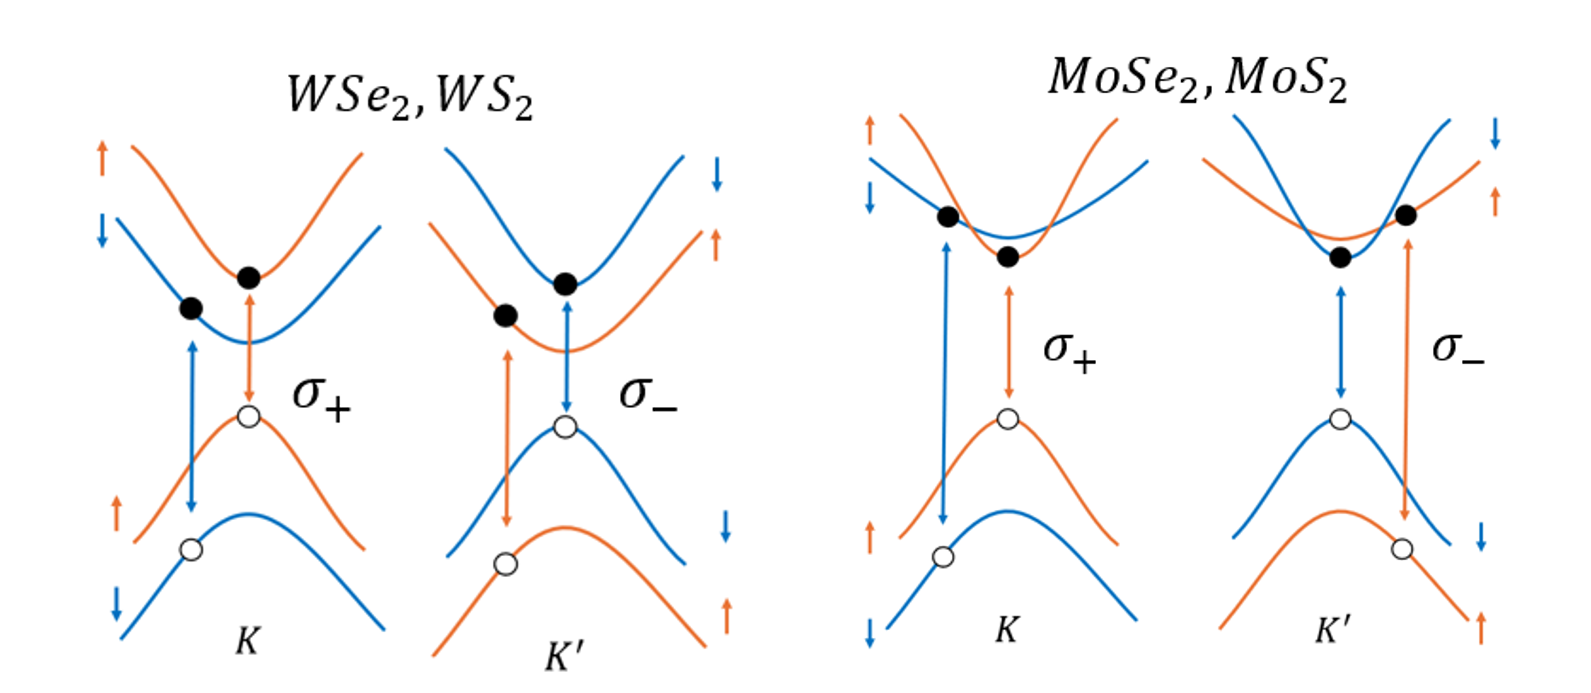
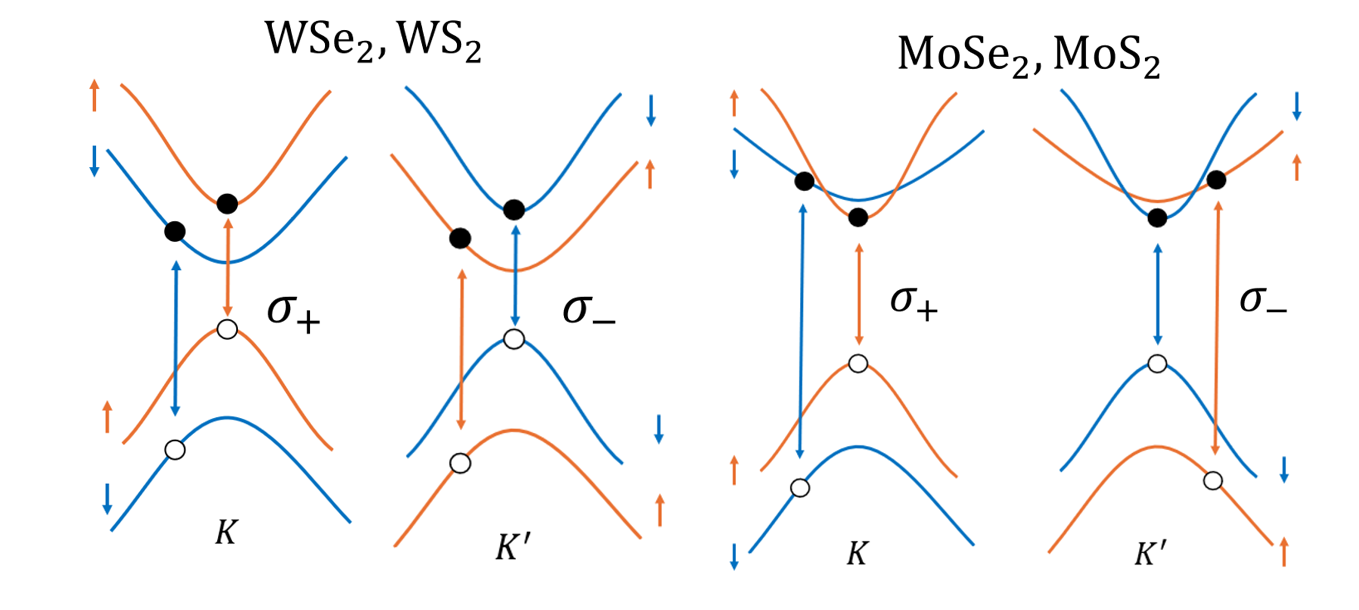
Add files via upload

diff --git a/5-Chapters/2-RelatedWorks.tex b/5-Chapters/2-RelatedWorks.tex
@@ -25,8 +25,8 @@
 \section{激子多體理論與 Bethe-Salpeter 方程式（BSE）}
 \label{sec:theory_BSE}
 % ─────────────────────────────────────────
-在單層過渡金屬二硫族化合物（TMD-MLs）中，由於二維量子侷限系統的面外介電屏蔽效應微弱，顯著增強的庫侖交互作用使電子與電洞間的束縛能非常強 \cite{Chernikov2014}。傳統基於密度泛函理論（DFT）的單粒子能帶架構僅能描述獨立載子的準粒子（Quasiparticle）能量，無法有效捕捉電子與電洞之間的庫侖相干束縛態。因此，若要定量描述二維系統中的激子多體效應（Many-body effects），必須從多體微擾理論出發，首先構建激子系統的多體漢米爾頓量算符 $\hat{H}^{X}$ \cite{Lin2024Phd,Haug2009}：
-在單層過渡金屬二硫族化合物（TMD-MLs）中，由於二維量子侷限系統的面外介電屏蔽效應微弱，顯著增強的庫侖交互作用使電子與電洞間的束縛能非常強 \cite{Chernikov2014}。傳統基於密度泛函理論（DFT）的單粒子能帶架構僅能描述獨立載子的準粒子（Quasiparticle）能量，無法有效捕捉電子與電洞之間的庫侖相干束縛態。因此，若要定量描述二維系統中的激子多體效應（Many-body effects），必須從多體微擾理論出發，構建激子系統的多體漢米爾頓量算符 $\hat{H}^{X}$ \cite{Lin2024Phd,Haug2009}：
+
+在單層過渡金屬二硫族化合物（TMD-MLs）中，由於二維量子侷限系統的面外介電屏蔽效應微弱，顯著增強的庫侖交互作用使電子與電洞間的束縛能非常強 \cite{Chernikov2014}。傳統基於密度泛函理論（DFT）的單粒子能帶架構僅能描述獨立載子的準粒子（Quasiparticle）能量，無法有效捕捉電子與電洞之間的庫侖相干束縛態。因此，若要定量描述二維系統中的激子多體效應（Many-body effects），必須從多體微擾理論出發，構建激子系統的多體哈密頓量 $\hat{H}^{X}$ \cite{Lin2024Phd,Haug2009}：
 \begin{equation}
 	\hat{H}^{X} = \hat{H}_0 + \hat{H}_{\mathrm{eh}}^d + \hat{H}_{\mathrm{eh}}^x
 	\label{eq:H_exciton_total}
@@ -37,58 +37,65 @@
 	\hat{H}_{\mathrm{eh}}^d &= -\sum_{\mathbf{k}_{\mathrm{ex}}}\sum_{vck}\sum_{v'c'k'} V_{\mathbf{k}_{\mathrm{ex}}}^d(vc\mathbf{k}, v'c'\mathbf{k}') \, \hat{c}_{c,\mathbf{k}+\mathbf{k}_{\mathrm{ex}}}^{\dagger}\hat{h}_{v,-\mathbf{k}}^{\dagger}\hat{h}_{v',-\mathbf{k}'}\hat{c}_{c',\mathbf{k}'+\mathbf{k}_{\mathrm{ex}}} \label{eq:Hd_op} \\
 	\hat{H}_{\mathrm{eh}}^x &= \sum_{\mathbf{k}_{\mathrm{ex}}}\sum_{vck}\sum_{v'c'k'} V_{\mathbf{k}_{\mathrm{ex}}}^x(vc\mathbf{k}, v'c'\mathbf{k}') \, \hat{c}_{c,\mathbf{k}+\mathbf{k}_{\mathrm{ex}}}^{\dagger}\hat{h}_{v,-\mathbf{k}}^{\dagger}\hat{h}_{v',-\mathbf{k}'}\hat{c}_{c',\mathbf{k}'+\mathbf{k}_{\mathrm{ex}}} \label{eq:Hx_op}
 \end{align}
-此處，$\hat{H}_0$ 為自由載子的準粒子動能項，$\hat{H}_{\mathrm{eh}}^d$ 為電子--電洞直接庫侖交互作用項，$\hat{H}_{\mathrm{eh}}^x$ 則為電子--電洞交換交互作用項 \cite{Haug2009}。$\hat{c}_{c,\mathbf{k}}^{\dagger}$（$\hat{c}_{c,\mathbf{k}}$）為導帶電子的創生（湮滅）算符，$\hat{h}_{v,-\mathbf{k}}^{\dagger}$（$\hat{h}_{v,-\mathbf{k}}$）為價帶電洞的創生（湮滅）算符，$\mathbf{k}$ 為載子的單粒子波向量，而 $\mathbf{k}_{\mathrm{ex}}$ 則代表激子的質心動量（Center-of-mass momentum）\cite{Lin2024Phd}。準粒子動能 $\epsilon_{c,\mathbf{k}}$ 與 $\epsilon_{v,\mathbf{k}}$ 由單粒子能帶結構決定 \cite{Lin2024Phd}。其交互作用核中直接項與交換項的散射矩陣元分別定義為 \cite{Lin2024Phd,Haug2009}：
-\begin{equation}
-	V_{\mathbf{k}_{\mathrm{ex}}}^d(vc\mathbf{k}, v'c'\mathbf{k}') = \int\int d^{3}r_{1}d^{3}r_{2} \, \psi_{c,\mathbf{k}+\mathbf{k}_{\mathrm{ex}}}^{*}(r_{1})\psi_{v,\mathbf{k}}(r_{2}) W(r_{1},r_{2}) \psi_{v'\mathbf{k}'}^{*}(r_{2})\psi_{c',\mathbf{k}'+\mathbf{k}_{\mathrm{ex}}}(r_{1})
-\end{equation}
-\begin{equation}
-	V_{\mathbf{k}_{\mathrm{ex}}}^x(vc\mathbf{k}, v'c'\mathbf{k}') = \int\int d^{3}r_{1}d^{3}r_{2} \, \psi_{c,\mathbf{k}+\mathbf{k}_{\mathrm{ex}}}^{*}(r_{1})\psi_{v',\mathbf{k}'}^{*}(r_{2}) V(r_{1}-r_{2}) \psi_{c',\mathbf{k}'+\mathbf{k}_{\mathrm{ex}}}(r_{2})\psi_{v,\mathbf{k}}(r_{1})
-\end{equation}
-此處，$V(r_{1}-r_{2})$ 為裸庫侖交互作用（Bare Coulomb interaction），而 $W(r_{1},r_{2})$ 則為屏蔽庫侖交互作用（Screened Coulomb interaction）\cite{Lin2024Phd}。直接項導致載子間的吸引散射，而交換項則描述載子對的相干湮滅與重新激發過程 \cite{Lin2024Phd}。
 此處，$\hat{H}_0$ 為自由載子的準粒子動能項，$\hat{H}_{\mathrm{eh}}^d$ 為電子--電洞直接庫侖交互作用項，$\hat{H}_{\mathrm{eh}}^x$ 則為電子--電洞交換交互作用項 \cite{Haug2009}。$\hat{c}_{c,\mathbf{k}}^{\dagger}$（$\hat{c}_{c,\mathbf{k}}$）為導帶電子的創生（湮滅）算符，$\hat{h}_{v,-\mathbf{k}}^{\dagger}$（$\hat{h}_{v,-\mathbf{k}}$）為價帶電洞的創生（湮滅）算符，$\mathbf{k}$ 為載子的單粒子波向量，$\mathbf{k}_{\mathrm{ex}}$ 代表激子的質心動量（Center-of-mass momentum）\cite{Lin2024Phd}。其交互作用核中直接項與交換項的散射矩陣元分別定義為 \cite{Lin2024Phd,Haug2009}：
 \begin{align}
 	V_{\mathbf{k}_{\mathrm{ex}}}^d(vc\mathbf{k}, v'c'\mathbf{k}') &= \int\!\!\int d^{3}r_{1}\,d^{3}r_{2} \; \psi_{c,\mathbf{k}+\mathbf{k}_{\mathrm{ex}}}^{*}(r_{1})\psi_{v,\mathbf{k}}(r_{2})\, W(r_{1},r_{2})\, \psi_{v'\mathbf{k}'}^{*}(r_{2})\psi_{c',\mathbf{k}'+\mathbf{k}_{\mathrm{ex}}}(r_{1}) \\[4pt]
 	V_{\mathbf{k}_{\mathrm{ex}}}^x(vc\mathbf{k}, v'c'\mathbf{k}') &= \int\!\!\int d^{3}r_{1}\,d^{3}r_{2} \; \psi_{c,\mathbf{k}+\mathbf{k}_{\mathrm{ex}}}^{*}(r_{1})\psi_{v',\mathbf{k}'}^{*}(r_{2})\, V(r_{1}-r_{2})\, \psi_{c',\mathbf{k}'+\mathbf{k}_{\mathrm{ex}}}(r_{2})\psi_{v,\mathbf{k}}(r_{1})
 \end{align}
-此處，$V(r_{1}-r_{2})$ 為裸庫侖交互作用（Bare Coulomb interaction），$W(r_{1},r_{2})$ 則為屏蔽庫侖交互作用（Screened Coulomb interaction）\cite{Lin2024Phd}。直接項導致載子間的吸引散射，交換項則描述載子對的相干湮滅與重新激發過程 \cite{Lin2024Phd}。
+此處，$V(r_{1}-r_{2})$ 為裸庫侖交互作用（Bare Coulomb interaction），$W(r_{1},r_{2})$ 則為屏蔽庫侖交互作用（Screened Coulomb interaction）\cite{Lin2024Phd}。直接項導致載子間的吸引散射，交換項則描述載子對的相干湮滅與重新激發過程 \cite{Lin2024Phd}。此兩組交互作用核之微觀費曼圖示意如圖~\ref{fig:bse_interactions} 所示。
+
+\begin{figure}[H]
+	\centering
+	\includegraphics[width=0.88\textwidth]{Figures/bse_interactions.png}
+	\caption{Bethe-Salpeter 方程式（BSE）中兩類交互作用核之微觀多體費曼圖示意。(a) 直接庫侖交互作用項（Direct Coulomb interaction）：電子與電洞間受介電屏蔽的吸引散射，為激子束縛態形成之根源，對應核 $V^d$；(b) 交換庫侖交互作用項（Exchange Coulomb interaction）：電子與電洞對之相干湮滅與重新激發過程，對應核 $V^x$，其非解析不連續性主導動量空間的縱橫劈裂與偶極方向選擇性。}
+	\label{fig:bse_interactions}
+\end{figure}
+
 物理上，激子的量子態波函數必須表示為自由電子--電洞對量子態的線性疊加 \cite{Yu2014}。若定義系統之無激子多體基態為 $|\mathrm{GS}\rangle$，則具有特定質心動量 $\hbar\mathbf{k}_{\mathrm{ex}}$ 的激子本徵態 $|S, \mathbf{k}_{\mathrm{ex}}\rangle$ 可展開為 \cite{Yu2014,Lin2024Phd}：
 \begin{equation}
 	|S, \mathbf{k}_{\mathrm{ex}}\rangle = \frac{1}{\sqrt{\Omega_A}} \sum_{vc\mathbf{k}} A_{S,\mathbf{k}_{\mathrm{ex}}}^{vc}(\mathbf{k}) \, \hat{c}_{c,\mathbf{k}+\mathbf{k}_{\mathrm{ex}}}^{\dagger} \hat{h}_{v,-\mathbf{k}}^{\dagger} |\mathrm{GS}\rangle
 	\label{eq:exciton_state_BSE_theory}
 \end{equation}
-其中，$\Omega_A$ 為系統之歸一化面積，$S$ 為激子本徵能帶索引，係數 $A_{S,\mathbf{k}_{\mathrm{ex}}}^{vc}(\mathbf{k})$ 則為該對應配置下的波函數展開振幅，代表該載子對疊加的機率振幅（Probability amplitude）\cite{Lin2024Phd}。
-其中 $\Omega_A$ 為系統之歸一化面積，$S$ 為激子本徵能帶索引，展開係數 $A_{S,\mathbf{k}_{\mathrm{ex}}}^{vc}(\mathbf{k})$ 代表各載子對疊加的機率振幅（Probability amplitude）\cite{Lin2024Phd}。
-將激子本徵態 $|S, \mathbf{k}_{\mathrm{ex}}\rangle$ 帶入定常狀態的多體薛丁格方程（Many-body Schrödinger Equation）$\hat{H}^{X} |S, \mathbf{k}_{\mathrm{ex}}\rangle = E_{S,\mathbf{k}_{\mathrm{ex}}}^X |S, \mathbf{k}_{\mathrm{ex}}\rangle$，經由算符對易化簡與基態投影，即可嚴格導出標準的 Bethe-Salpeter 方程式（BSE）\cite{Lin2024Phd,Haug2009}：
+其中 $\Omega_A$ 為系統之歸一化面積，$S$ 為激子本徵能帶索引，展開係數 $A_{S,\mathbf{k}_{\mathrm{ex}}}^{vc}(\mathbf{k})$ 代表各載子對疊加的機率振幅（Probability amplitude）\cite{Lin2024Phd}。單粒子躍遷對經由集體相干疊加、在動量空間凝聚出激子本徵色散能帶的物理圖像示意如圖~\ref{fig:exciton_coherence} 所示。
+
+\begin{figure}[H]
+	\centering
+	\includegraphics[width=0.92\textwidth]{Figures/exciton_coherence.png}
+	\caption{單粒子載子對之集體相干疊加與雙粒子激子本徵色散能譜示意圖。（左）在單粒子電子波向量 $\mathbf{k}$ 空間中，價帶電洞（空心圓）與導帶電子（實心圓）受特定質心動量 $\hbar\mathbf{k}_{\mathrm{ex}}$ 聯結的集體多體躍遷（紅色箭頭）；（右）經由求解 Bethe-Salpeter 方程式對角化後，於激子質心動量 $k_{ex}$ 空間中，在準粒子連續帶（Continuum）下方所凝聚出的離散激子束縛態（Bound state）本徵色散能帶（紅線）。}
+	\label{fig:exciton_coherence}
+\end{figure}
+
 將上式代入定常狀態多體薛丁格方程 $\hat{H}^{X} |S, \mathbf{k}_{\mathrm{ex}}\rangle = E_{S,\mathbf{k}_{\mathrm{ex}}}^X |S, \mathbf{k}_{\mathrm{ex}}\rangle$，經由算符對易化簡與基態投影，可嚴格導出標準的 Bethe-Salpeter 方程式（BSE）\cite{Lin2024Phd,Haug2009}：
 \begin{equation}
 	(\epsilon_{c,\mathbf{k}+\mathbf{k}_{\mathrm{ex}}} - \epsilon_{v,\mathbf{k}}) A_{S,\mathbf{k}_{\mathrm{ex}}}^{vc}(\mathbf{k}) + \sum_{v'c'\mathbf{k}'} U_{\mathbf{k}_{\mathrm{ex}}}(vc\mathbf{k}, v'c'\mathbf{k}') A_{S,\mathbf{k}_{\mathrm{ex}}}^{v'c'}(\mathbf{k}') = E_{S,\mathbf{k}_{\mathrm{ex}}}^X A_{S,\mathbf{k}_{\mathrm{ex}}}^{vc}(\mathbf{k})
 	\label{eq:BSE_eigen}
 \end{equation}
-此處，$E_{S,\mathbf{k}_{\mathrm{ex}}}^X$ 為 $S$ 狀態激子在質心動量 $\mathbf{k}_{\mathrm{ex}}$ 下的本徵能量，而多體交互作用核則定義為：
 其中 $E_{S,\mathbf{k}_{\mathrm{ex}}}^X$ 為 $S$ 狀態激子在質心動量 $\mathbf{k}_{\mathrm{ex}}$ 下的本徵能量，多體交互作用核定義為：
 \begin{equation}
 	U_{\mathbf{k}_{\mathrm{ex}}}(vc\mathbf{k}, v'c'\mathbf{k}') = -V_{\mathbf{k}_{\mathrm{ex}}}^d(vc\mathbf{k}, v'c'\mathbf{k}') + V_{\mathbf{k}_{\mathrm{ex}}}^x(vc\mathbf{k}, v'c'\mathbf{k}')
 \end{equation}
-藉由數值對角化求解此特徵值方程，其特徵值與特徵向量即分別對應激子的本徵能量譜與包絡波函數振幅 \cite{Haug2009}。
-在求解獲得振幅後，可進一步定量計算決定激子狀態光學躍遷強度的激子躍遷偶極矩（Exciton Transition Dipole Moment）$\mathbf{D}_{S,\mathbf{k}_{\mathrm{ex}}}^{X}$ \cite{Lin2024Phd}：
 藉由數值對角化求解此特徵值方程，特徵值與特徵向量分別對應激子的本徵能量譜與包絡波函數振幅 \cite{Haug2009}。在求解獲得振幅後，可定量計算激子躍遷偶極矩（Exciton Transition Dipole Moment）$\mathbf{D}_{S,\mathbf{k}_{\mathrm{ex}}}^{X}$ \cite{Lin2024Phd}：
 \begin{equation}
 	\mathbf{D}_{S,\mathbf{k}_{\mathrm{ex}}}^{X} \equiv \frac{1}{\sqrt{\Omega_A}}\sum_{vc\mathbf{k}}A_{S,\mathbf{k}_{\mathrm{ex}}}^{vc}(\mathbf{k})\,\mathbf{d}_{cv,\mathbf{k}}
 	\label{eq:exciton_dipole_definition}
 \end{equation}
-此處，$\mathbf{d}_{cv,\mathbf{k}} \equiv e\langle\psi_{c,\mathbf{k}+\mathbf{k}_{\mathrm{ex}}}|\mathbf{r}|\psi_{v,\mathbf{k}}\rangle$ 為單粒子 Scheme 下的單電子躍遷偶極矩 \cite{Lin2024Phd}。上述方程式~\eqref{eq:exciton_dipole_definition} 所建立的激子躍遷偶極矩，將作為後續第~\ref{sec:theory_coupling} 節推導近場微擾耦合矩陣元的直接理論依據 \cite{Lin2024Phd}。
 此處 $\mathbf{d}_{cv,\mathbf{k}} \equiv e\langle\psi_{c,\mathbf{k}+\mathbf{k}_{\mathrm{ex}}}|\mathbf{r}|\psi_{v,\mathbf{k}}\rangle$ 為單電子躍遷偶極矩 \cite{Lin2024Phd}。此關係式將作為第~\ref{sec:theory_coupling} 節推導近場耦合矩陣元的直接依據。
+
+
 % ─────────────────────────────────────────
-\section{TMDs 谷激子之贗自旋模型與類光色散}
+\section{TMDs 谷激子之 Pseudo-spin 模型與類光色散}
 \label{sec:theory_pseudospin}
 % ─────────────────────────────────────────
-上節所建立的 BSE 框架在應用於單層 TMD 時，由於其特殊的 $C_3$ 晶體對稱性破缺以及強烈的自旋軌道耦合（SOC），直接能隙位於第一布里淵區的 $K$ 與 $K'$ 能谷 \cite{Xiao2012}。在考慮電子--電洞（e-h）交換交互作用（Electron-Hole Exchange Interaction）後，兩個能谷的激子態相互混合，其本徵模式可透過贗自旋模型（Pseudo-spin Model）系統性地描述 \cite{Lin2024Phd}。
+
+上節所建立的 BSE 框架在應用於單層 TMD 時，由於其特殊的 $C_3$ 晶體對稱性破缺以及強烈的自旋軌道耦合（SOC），直接能隙位於第一布里淵區的 $K$ 與 $K'$ 能谷 \cite{Xiao2012}。在考慮電子--電洞（e-h）交換交互作用（Electron-Hole Exchange Interaction）後，兩個能谷的激子態相互混合，其本徵模式可透過 Pseudo-spin 模型系統性地描述 \cite{Lin2024Phd}。
+
 將具有特定質心動量 $\hbar \mathbf{Q}$ 的 $K$ 谷激子態 $|\psi^X_{K,\mathbf{Q}}\rangle$ 與 $K'$ 谷激子態 $|\psi^X_{K',\mathbf{Q}}\rangle$ 作為一組二維正交基底，考慮交換交互作用後，系統的有效本徵漢米爾頓矩陣可表示為 \cite{Lin2024Phd,Yu2014}：
 \begin{equation}
 	\hat{H}_X(\mathbf{Q}) = \begin{pmatrix} E^{(0)}_{K,\mathbf{Q}} + \tilde{\Delta}_{K,K}(\mathbf{Q}) & \tilde{\Delta}_{K,K'}(\mathbf{Q}) \\ \tilde{\Delta}^*_{K,K'}(\mathbf{Q}) & E^{(0)}_{K',\mathbf{Q}} + \tilde{\Delta}_{K',K'}(\mathbf{Q}) \end{pmatrix}
 	\label{eq:H_pseudospin}
 \end{equation}
 其中 $E^{(0)}_{\tau,\mathbf{Q}}$ 為未考慮交換交互作用時的雙重簡併激子能帶，$\tilde{\Delta}_{\tau,\tau'}(\mathbf{Q})$ 則為由庫侖交換場主導的能谷混合矩陣元 \cite{Lin2024Phd}。
+
 對上述矩陣進行對角化後，本徵模式分裂為兩支色散完全不同的激子能帶 \cite{Lin2024Phd,Qiu2015}：
 \begin{itemize}
 	\item \textbf{縱向（Longitudinal）類光上能帶}（$S = +$）：受長程交換交互作用驅動，在高動量極限下呈現線性色散，
@@ -100,99 +107,104 @@
 	\label{eq:exciton_dispersion}
 \end{equation}
 其中 $E^X_0$ 為激子之帶邊能量，$\gamma$ 為交換交互作用強度，$M^X$ 為激子有效質量 \cite{Lin2024Phd}。
+
 兩支本徵態的躍遷偶極矩方向具有本質差異 \cite{Lin2024Phd}：
 \begin{equation}
 	\mathbf{D}^X_{+,\mathbf{Q}} = D^X_B \hat{\mathbf{Q}}, \qquad \mathbf{D}^X_{-,\mathbf{Q}} = -i D^X_B \hat{\mathbf{Q}}_\perp
 	\label{eq:exciton_dipole_direction}
 \end{equation}
-其中 $\hat{\mathbf{Q}} = \mathbf{Q}/Q$ 為質心動量方向的單位向量，$\hat{\mathbf{Q}}_\perp$ 為其面內垂直方向，$D^X_B$ 為亮激子偶極矩大小 \cite{Lin2024Phd}。此偶極方向的差異在後續與邊緣電漿子局域近場的耦合中扮演著關鍵的物理角色：邊緣電漿子的近場極化方向決定了它優先與哪一支激子模式耦合。
+其中 $\hat{\mathbf{Q}} = \mathbf{Q}/Q$ 為質心動量方向的單位向量，$\hat{\mathbf{Q}}_\perp$ 為其面內垂直方向，$D^X_B$ 為亮激子偶極矩大小 \cite{Lin2024Phd}。此偶極方向的差異在後續與邊緣電漿子局域近場的耦合中扮演著關鍵的物理角色：邊緣電漿子的近場極化方向決定了它優先與哪一支激子模式耦合。兩支本徵態在動量空間中的偶極場分佈如圖~\ref{fig:dipole_fields} 所示。
+
+\begin{figure}[H]
+	\centering
+	\begin{subfigure}[b]{0.46\textwidth}
+		\centering
+		\includegraphics[width=\textwidth]{Figures/D_plus.png}
+		\caption{縱向類光上能帶 $\mathbf{D}_{+,\mathbf{Q}}$：偶極矩方向平行於質心動量 $\mathbf{Q}$，呈輻射狀分佈。}
+		\label{fig:dipole_plus}
+	\end{subfigure}
+	\hfill
+	\begin{subfigure}[b]{0.46\textwidth}
+		\centering
+		\includegraphics[width=\textwidth]{Figures/D_minus.png}
+		\caption{橫向類粒子下能帶 $\mathbf{D}_{-,\mathbf{Q}}$：偶極矩方向垂直於質心動量 $\mathbf{Q}$，呈環狀渦旋分佈。}
+		\label{fig:dipole_minus}
+	\end{subfigure}
+	\caption{Pseudo-spin 模型兩支本徵激子態在質心動量 $\mathbf{Q}$ 空間中的躍遷偶極場（Transition Dipole Field）分佈。偶極方向的根本差異源自電子--電洞交換交互作用對兩個能谷激子態的不同混合方式，此幾何選擇性直接決定 EP 近場與各激子模式的耦合效率。}
+	\label{fig:dipole_fields}
+\end{figure}
+
 此外，上能帶（$S = +$）的類光線性色散 $E^X_{+,\mathbf{Q}} \approx E^X_0 + 2\gamma Q$ 在動量空間中形成一個以光子色散斜率（$\sim c$）遠小於聲速的斜率（$2\gamma/\hbar$）存在的線性錐，此即「類光激子（Light-like exciton）」名稱的由來。這條線性色散曲線與邊緣電漿子的色散曲線的共振交點，正是本研究在第四章中分析動量工程的核心目標。
+
+
 % ─────────────────────────────────────────
 \section{邊緣電漿子與谷激子之近場耦合理論}
 \label{sec:theory_coupling}
 % ─────────────────────────────────────────
-本節以第~\ref{sec:theory_BSE} 節所建立之激子多體理論為基礎，建立邊緣電漿子（Edge Dipole Plasmon, EDP）局域近場與單層 TMD 谷激子之間近場耦合的完整微擾理論框架，並推導出本研究計算光學躍遷速率所依賴的兩個核心方程式。
-本節整合前兩節所建立的激子多體理論（第~\ref{sec:theory_BSE} 節）與贗自旋模型（第~\ref{sec:theory_pseudospin} 節），建立邊緣電漿子（Edge Plasmon, EDP）局域近場與單層 TMD 谷激子之間近場耦合的完整微擾理論框架，整體推導分為以下三個步驟：（1）光與物質交互作用漢米爾頓量；（2）近場耦合矩陣元；（3）費米黃金律與光學躍遷速率。
+
+本節以第~\ref{sec:theory_BSE} 節的激子多體理論與第~\ref{sec:theory_pseudospin} 節的贗自旋模型為基礎，建立邊緣電漿子（Edge Plasmon, EP）局域近場與單層 TMD 谷激子之間的近場微擾耦合理論，推導分為三個步驟：（1）光與物質交互作用漢米爾頓量；（2）近場耦合矩陣元；（3）費米黃金律與光學躍遷速率。
+
 \subsection{光與物質交互作用漢米爾頓量}
-考慮一個電子在電磁場中運動的完整系統，其總漢米爾頓量可寫為 \cite{Loudon2000,Fox2001}：
+
+考慮電子在電磁場中的完整漢米爾頓量 \cite{Loudon2000,Fox2001}：
 \begin{equation}
 	\hat{H}_{\text{tot}} = \hat{H}_0 + \hat{H}_{\text{LMI}}
 \end{equation}
-在電磁學的庫侖規範（Coulomb Gauge）下，即 $\phi(\mathbf{r}, t) = 0$ 且 $\nabla \cdot \mathbf{A}(\mathbf{r}, t) = 0$，光物質交互作用（Light-Matter Interaction, LMI）漢米爾頓量在弱場近似下化簡為一階微擾項 \cite{Weiner2008}：
-其中未受擾系統的漢米爾頓量為 $\hat{H}_0 = \mathbf{p}^2/2m_0 + V(\mathbf{r})$，$m_0$ 為自由電子質量，$V(\mathbf{r})$ 為週期性晶格電位。光與物質交互作用（Light-Matter Interaction, LMI）漢米爾頓量的完整形式為 \cite{Weiner2008}：
+其中 $\hat{H}_0 = \mathbf{p}^2/2m_0 + V(\mathbf{r})$ 為週期晶格中的自由電子哈密頓量。光與物質交互作用（Light-Matter Interaction, LMI）哈密頓量的完整形式為 \cite{Weiner2008}：
 \begin{equation}
 	\hat{H}_{\text{LMI}} = \frac{e}{m_0} \mathbf{A}(\mathbf{r}, t) \cdot \mathbf{p} + \frac{e^2 \mathbf{A}^2(\mathbf{r}, t)}{2m_0} + e\phi(\mathbf{r}, t)
 \end{equation}
-其中 $e$ 為電子基本電荷，$\mathbf{A}(\mathbf{r}, t)$ 與 $\phi(\mathbf{r}, t)$ 分別為電磁場的向量勢與純量勢。在電磁學的庫侖規範（Coulomb Gauge）下，純量勢為零且向量勢滿足橫向條件：
+其中 $e$ 為電子電荷，$\mathbf{A}(\mathbf{r}, t)$ 與 $\phi(\mathbf{r}, t)$ 分別為電磁場的向量勢與純量勢。在庫侖規範（Coulomb Gauge）下：
 \begin{equation}
 	\phi(\mathbf{r}, t) = 0, \qquad \nabla \cdot \mathbf{A}(\mathbf{r}, t) = 0
 \end{equation}
-庫侖規範保證 $[\mathbf{p}, \mathbf{A}] = 0$，使純量勢貢獻消失。進一步在弱場近似（Weak-field Approximation）下，$\mathbf{A}^2$ 項為二階小量可忽略，得到一階微擾漢米爾頓量：
+庫侖規範保證 $[\mathbf{p}, \mathbf{A}] = 0$，純量勢項消失。在弱場近似下捨去二階的 $\mathbf{A}^2$ 項，得到一階微擾漢米爾頓量：
 \begin{equation}
 	\hat{H}_{\text{LMI}} \approx \frac{e}{m_0} \mathbf{A}(\mathbf{r}, t) \cdot \mathbf{p}
 \end{equation}
-其中 $e$ 為電子基本電荷，$m_0$ 為自由電子質量，$\mathbf{A}(\mathbf{r}, t)$ 為電磁場的複數向量勢。對於邊緣電漿子場源，取其複數向量勢 $\mathbf{A}_{\text{EDP}}(\mathbf{r}, t)$ 作為微擾，代入後得到系統的微擾哈密頓量：
-取向量勢的實部表示 $\mathbf{A}(\mathbf{r}, t) = \frac{1}{2}(\mathbf{A}_{\text{EP}} + \mathbf{A}^*_{\text{EP}})$，其中 $\mathbf{A}_{\text{EP}}(\mathbf{r}, t)$ 為邊緣電漿子的複數向量勢，代入後得到：
+取邊緣電漿子複數向量勢 $\mathbf{A}_{\text{EP}}(\mathbf{r}, t)$ 的實部代入，即 $\mathbf{A} = \frac{1}{2}(\mathbf{A}_{\text{EP}} + \mathbf{A}^*_{\text{EP}})$：
 \begin{equation}
-	\hat{H}_{I} = \frac{e}{2m_0} \left( \mathbf{A}_{\text{EDP}}(\mathbf{r}, t) \cdot \mathbf{p} + \mathbf{A}^*_{\text{EDP}}(\mathbf{r}, t) \cdot \mathbf{p} \right)
 	\hat{H}_{I} = \frac{e}{2m_0} \left( \mathbf{A}_{\text{EP}}(\mathbf{r}, t) \cdot \mathbf{p} + \mathbf{A}^*_{\text{EP}}(\mathbf{r}, t) \cdot \mathbf{p} \right)
 	\label{eq:H_LMI_EP}
 \end{equation}
-此即本研究所採用的光物質交互作用微擾漢米爾頓量，與實驗室既有理論架構一致 \cite{Lin2024Phd,Weiner2008}。
+
 \subsection{近場耦合矩陣元}
-此處需要特別強調：邊緣電漿子（EDP）與傳統表面電漿極化子（SPP）在場結構上有本質差異，兩者的近場耦合矩陣元不可混用。SPP 傳播於二維金屬--介電質界面，其場沿垂直於界面方向的指數衰減 $e^{-\kappa z}$ 可由 SPP 色散關係直接解析推導，衰減常數 $\kappa$ 具有封閉解析表達式。\textbf{邊緣電漿子則根本不同}：EDP 的模式侷限於金屬薄膜的幾何邊緣，沿邊緣方向作一維傳播，場在垂直邊緣的平面內同時朝兩個空間方向（垂直於薄膜表面 $z$ 方向，以及橫向離開邊緣的 $x$ 方向）衰減。這種二維局域化的場型結構使得 EDP 的近場分佈不存在任何封閉的解析表達式，必須完整地仰賴數值模擬。
-此處需要特別強調：邊緣電漿子（EDP）與傳統表面電漿極化子（SPP）在場結構上具有本質差異，兩者的近場耦合矩陣元不可混用。SPP 傳播於二維金屬--介電質界面，其場沿垂直於界面方向的指數衰減 $e^{-\kappa z}$ 可由色散關係直接解析推導，衰減常數 $\kappa$ 具有封閉解析表達式。\textbf{邊緣電漿子則根本不同}：EDP 的模式侷限於金屬薄膜的幾何邊緣，沿邊緣方向作一維傳播，場在垂直邊緣的平面內同時朝兩個空間方向（垂直於薄膜表面 $z$ 方向，以及橫向離開邊緣的 $x$ 方向）衰減。這種二維局域化的場型結構使得 EDP 的近場分佈不存在任何封閉的解析表達式，必須完整地仰賴數值模擬。
-因此，EDP 版本的耦合矩陣元中，不能引入任何來自 SPP 理論的解析場型假設（例如 $e^{-\kappa d}$ 分離因子）。正確的處理方式是：在 MEEP 三維有限差分時域模擬中，直接在單層 TMD 所在的平面高度 $z = d$ 處對電場進行取樣，獲得 EDP 在該平面上完整的實空間近場分佈 $\mathbf{E}_{\text{EDP}}(\mathbf{r}_{\parallel}, z=d)$，再透過二維傅立葉轉換轉換至動量空間，並利用 $\mathbf{A} = \mathbf{E}/i\omega$ 換算為向量勢：
-因此，正確的處理方式是：在 MEEP 三維有限差分時域模擬中，直接在單層 TMD 所在的平面高度 $z = d$ 處對電場進行取樣，獲得 EDP 在該平面上完整的實空間近場分佈 $\mathbf{E}_{\text{EDP}}(\mathbf{r}_{\parallel}, z=d)$，再透過二維傅立葉轉換至動量空間，並利用 $\mathbf{A} = \mathbf{E}/i\omega$ 換算為向量勢：
+
+邊緣電漿子（EP）與表面電漿極化子（SPP）在場結構上有本質差異。SPP 場沿垂直於金屬界面的 $z$ 方向呈指數衰減 $e^{-\kappa z}$，衰減常數 $\kappa$ 可由色散關係解析給出。EP 的模式侷限於金屬薄膜的幾何邊緣，場在 $z$ 方向與橫向離邊緣的 $x$ 方向同時衰減，整個二維場型不存在封閉解析式。
+
+因此，EP 近場分佈必須完全由數值模擬提取：在 MEEP 模擬中，於 TMD 所在的平面高度 $z = d$ 處取樣電場，得到實空間分佈 $\mathbf{E}_{\text{EP}}(\mathbf{r}_{\parallel}, z=d)$，再透過二維傅立葉轉換與 $\mathbf{A} = \mathbf{E}/i\omega$ 換算得到動量空間向量勢：
 \begin{equation}
-	\mathbf{A}_{k_{EDP}}(\mathbf{Q})\big|_{z=d}
+	\mathbf{A}_{k_{EP}}(\mathbf{Q})\big|_{z=d}
 	= \frac{1}{i\omega} \int d^2r_{\parallel}\,
-	\mathbf{E}_{\text{EDP}}(\mathbf{r}_{\parallel}, z=d)\,
+	\mathbf{E}_{\text{EP}}(\mathbf{r}_{\parallel}, z=d)\,
 	e^{-i\mathbf{Q}\cdot\mathbf{r}_{\parallel}}
-	\label{eq:A_EDP_fourier}
+	\label{eq:A_EP_fourier}
 \end{equation}
-此數值量已完整包含 EDP 場型在 TMD 平面處的所有空間衰減與邊緣局域化資訊，無需額外引入任何解析衰減因子。
-在電偶極近似（Electric Dipole Approximation）下，假設 EDP 近場在單一晶胞尺度內可視為空間均勻，利用動量矩陣元與偶極矩的聯繫關係 $\langle c|\mathbf{p}|v\rangle = (im_0 E_g/\hbar e)\mathbf{d}_{cv}$，以及第~\ref{sec:theory_BSE} 節所定義的激子躍遷偶極矩 Eq.~\eqref{eq:exciton_dipole_definition}，可將邊緣電漿子激發特定谷激子模式 $(S, \mathbf{Q})$ 的近場耦合矩陣元推導為 \cite{Lin2024Phd,Haug2009}：
-在電偶極近似（Electric Dipole Approximation）下，假設 EDP 近場在單一晶胞尺度內可視為空間均勻，利用動量矩陣元與偶極矩的標準聯繫關係：
+EP 場的所有空間衰減與邊緣局域化資訊均包含於此數值量中，不另行引入解析衰減因子。
+
+在電偶極近似（Electric Dipole Approximation）下，EP 近場在單一晶胞尺度內視為均勻，動量矩陣元透過下式化為偶極矩：
 \begin{equation}
-	\langle \psi_{c,\mathbf{k}+\mathbf{Q}} | \mathbf{p} | \psi_{v,\mathbf{k}} \rangle = \frac{im_0 E_g}{\hbar} \langle \psi_{c,\mathbf{k}+\mathbf{Q}} | \mathbf{r} | \psi_{v,\mathbf{k}} \rangle \equiv \frac{im_0 E_g}{\hbar e}\,\mathbf{d}_{cv,\mathbf{k}}
+	\langle \psi_{c,\mathbf{k}+\mathbf{Q}} | \mathbf{p} | \psi_{v,\mathbf{k}} \rangle
+	= \frac{im_0 E_g}{\hbar e}\,\mathbf{d}_{cv,\mathbf{k}}
 \end{equation}
-以及第~\ref{sec:theory_BSE} 節所定義的激子躍遷偶極矩 Eq.~\eqref{eq:exciton_dipole_definition}，在二次量化語言下展開矩陣元 $\langle S, \mathbf{Q} | \hat{H}_I | GS \rangle$ 並整理，可推導出邊緣電漿子激發特定谷激子模式 $(S, \mathbf{Q})$ 的近場耦合矩陣元 \cite{Lin2024Phd,Haug2009}：
+代入 Eq.~\eqref{eq:H_LMI_EP} 並利用激子本徵態展開式計算矩陣元 $\langle S, \mathbf{Q} | \hat{H}_I | GS \rangle$，再引入 Eq.~\eqref{eq:exciton_dipole_definition} 所定義的激子躍遷偶極矩，整理後得到近場耦合矩陣元 \cite{Lin2024Phd,Haug2009}：
 \begin{equation}
 	\boxed{
 		\tilde{M}_{S,\mathbf{Q}}
 		\approx \frac{E_g}{2i\hbar}\,
-		\mathbf{A}_{k_{EDP}}(\mathbf{Q})\big|_{z=d} \cdot \mathbf{D}^{X*}_{S,\mathbf{Q}}
+		\mathbf{A}_{k_{EP}}(\mathbf{Q})\big|_{z=d} \cdot \mathbf{D}^{X*}_{S,\mathbf{Q}}
 	}
-	\label{eq:coupling_matrix_element_EDP}
+	\label{eq:coupling_matrix_element_EP}
 \end{equation}
-其中 $E_g$ 為單層 TMD 之光學能隙，$\mathbf{D}^{X*}_{S,\mathbf{Q}}$ 為第 $S$ 支激子分支於質心動量 $\mathbf{Q}$ 處的本徵躍遷偶極矩共軛，由 Eq.~\eqref{eq:exciton_dipole_definition} 給出。
-其中 $E_g$ 為單層 TMD 之光學能隙，$\mathbf{D}^{X*}_{S,\mathbf{Q}}$ 為第 $S$ 支激子分支於質心動量 $\mathbf{Q}$ 處的本徵躍遷偶極矩共軛（由 Eq.~\eqref{eq:exciton_dipole_definition} 給出，其方向由 Eq.~\eqref{eq:exciton_dipole_direction} 的贗自旋模型決定）。
-此矩陣元的核心物理含義在於：EDP 模式在幾何邊緣產生的高動量局域近場，其動量空間分量 $\mathbf{A}_{k_{EDP}}(\mathbf{Q})|_{z=d}$ 與谷激子本徵偶極矩 $\mathbf{D}^{X*}_{S,\mathbf{Q}}$ 之向量內積，直接定量決定了近場耦合效率。EDP 在動量空間中具有極寬的場分佈（源自邊緣幾何的強烈實空間局域化），這使得它能有效地與動量空間光錐以外的高動量暗激子態發生共振耦合，此點與 SPP 在色散曲線交點附近激發的物理機制一致，但 EDP 可藉由薄膜厚度系統性地工程化其色散曲線，提供額外的自由度。
-此矩陣元的核心物理含義在於：EDP 模式在幾何邊緣產生的高動量局域近場，其動量空間分量 $\mathbf{A}_{k_{EDP}}(\mathbf{Q})|_{z=d}$ 與谷激子本徵偶極矩 $\mathbf{D}^{X*}_{S,\mathbf{Q}}$ 之向量內積，直接定量決定近場耦合效率。EDP 在動量空間中具有極寬的場分佈（源自邊緣幾何的強烈實空間局域化），使其能有效與動量空間光錐以外的高動量谷激子態發生共振耦合。
+其中 $E_g$ 為單層 TMD 之光學能隙，$\mathbf{D}^{X*}_{S,\mathbf{Q}}$ 為第 $S$ 支激子分支於質心動量 $\mathbf{Q}$ 處的本徵躍遷偶極矩共軛（方向由 Eq.~\eqref{eq:exciton_dipole_direction} 決定）。EP 在動量空間中具有寬廣的場分佈（源自邊緣幾何的空間局域化），使其得以與光錐以外的高動量谷激子態耦合。
+
 \subsection{費米黃金律與光學躍遷速率}
-根據時變微擾理論的費米黃金律（Fermi's Golden Rule）\cite{sakurai2020modern}，邊緣電漿子誘發特定谷激子模式 $(S, \mathbf{Q})$ 的光學躍遷速率為：
+
+根據費米黃金律（Fermi's Golden Rule）\cite{Sakurai2020}，EP 誘發特定谷激子模式 $(S, \mathbf{Q})$ 的躍遷速率為：
 \begin{equation}
-	\boxed{
-		\Gamma_{S,\mathbf{Q}}
-		= \frac{2\pi}{\hbar}
-		\left|\tilde{M}_{S,\mathbf{Q}}\right|^2
-		\delta\!\left(E^X_{S,\mathbf{Q}} - E_{k_{EDP}}\right)
-	}
-	\label{eq:fermi_golden_rule_EDP}
+	\Gamma_{S,\mathbf{Q}} = \frac{2\pi}{\hbar} \left|\tilde{M}_{S,\mathbf{Q}}\right|^2 \delta\left(E^X_{S,\mathbf{Q}} - E_{k_{EP}}\right)
+	\label{eq:fermi_golden_rule_EP}
 \end{equation}
-其中 $E_{k_{EDP}} = \hbar\omega_{EDP}$ 為邊緣電漿子的本徵能量，$E^X_{S,\mathbf{Q}}$ 為對應激子模式的能量，$\delta$ 函數確保能量守恆。在實際數值計算中，由於系統具備本徵輻射損耗，$\delta$ 函數以具備有限線寬的勞倫茲（Lorentzian）函數代替，以反映系統的本徵損耗效應：
-其中 $E_{k_{EDP}} = \hbar\omega_{EDP}$ 為邊緣電漿子的本徵能量，$E^X_{S,\mathbf{Q}}$ 為對應激子模式的能量，$\delta$ 函數確保能量守恆。在實際數值計算中，$\delta$ 函數以具備有限線寬的勞倫茲（Lorentzian）函數代替，以反映系統的本徵損耗效應：
-\begin{equation}
-	\delta\!\left(E^X_{S,\mathbf{Q}} - E_{k_{EDP}}\right)
-	\rightarrow
-	\frac{1}{\pi}\frac{\Gamma/2}{\left(E^X_{S,\mathbf{Q}} - E_{k_{EDP}}\right)^2 + (\Gamma/2)^2}
-\end{equation}
-其中 $\Gamma$ 為系統之總本徵線寬（Full Width at Half Maximum, FWHM）。
-Eq.~\eqref{eq:fermi_golden_rule_EDP} 的能量守恆條件 $E^X_{S,\mathbf{Q}} = E_{k_{EDP}}$ 在動量空間中確立了**邊緣電漿子色散曲線與 TMD 谷激子色散曲線的共振交點**。唯有在此交點附近，$\Gamma_{S,\mathbf{Q}}$ 方能獲得顯著的共振增強，有效激發單層 TMD 的高動量類光激子態。因此，透過調控金屬薄膜厚度來移動邊緣電漿子色散曲線在動量空間中的位置，即可系統性地工程化此共振交點，此即本研究進行「動量工程（Momentum Engineering）」的核心物理機制，其具體數值結果將於第四章呈現。
-對所有與邊緣電漿子共振的質心動量求和，可得到特定激子分支 $S$ 的總躍遷速率：
-\begin{equation}
-	\Gamma_S = \sum_{\mathbf{Q}} \Gamma_{S,\mathbf{Q}} = \frac{2\pi}{\hbar} \sum_{\mathbf{Q}} \left|\tilde{M}_{S,\mathbf{Q}}\right|^2 \delta\!\left(E^X_{S,\mathbf{Q}} - E_{k_{EDP}}\right)
-	\label{eq:total_rate}
-\end{equation}
-Eq.~\eqref{eq:fermi_golden_rule_EDP} 的能量守恆條件 $E^X_{S,\mathbf{Q}} = E_{k_{EDP}}$ 在動量空間中確立了邊緣電漿子色散曲線與 TMD 谷激子色散曲線的\textbf{共振交點}。唯有在此交點附近，$\Gamma_{S,\mathbf{Q}}$ 方能獲得顯著的共振增強，有效激發單層 TMD 的高動量類光激子態（$S = +$）。因此，透過調控金屬薄膜厚度來移動邊緣電漿子色散曲線的位置，即可系統性地工程化此共振交點在動量空間中的座標，此即本研究進行「動量工程（Momentum Engineering）」的核心物理機制，其具體數值結果將於第四章呈現。
+其中 $E_{k_{EP}} = \hbar\omega_{EP}$ 為邊緣電漿子的本徵能量，$\delta$ 函數明確揭示了系統能量守恆的嚴格限制。
+
+Eq.~\eqref{eq:fermi_golden_rule_EP} 的能量守恆條件 $E^X_{S,\mathbf{Q}} = E_{k_{EP}}$ 在動量空間中確立了 EP 色散曲線與 TMD 谷激子色散曲線的\textbf{共振交點}。唯有在滿足此共振條件的動量座標附近，$\Gamma_{S,\mathbf{Q}}$ 方能獲得顯著的增強，實現對高動量類光激子態（$S = +$）的有效激發。透過調控金屬薄膜厚度以移動 EP 色散曲線，即可系統性地工程化此共振交點，此即本研究進行「動量工程（Momentum Engineering）」的核心物理機制，具體分析結果將於第四章呈現。